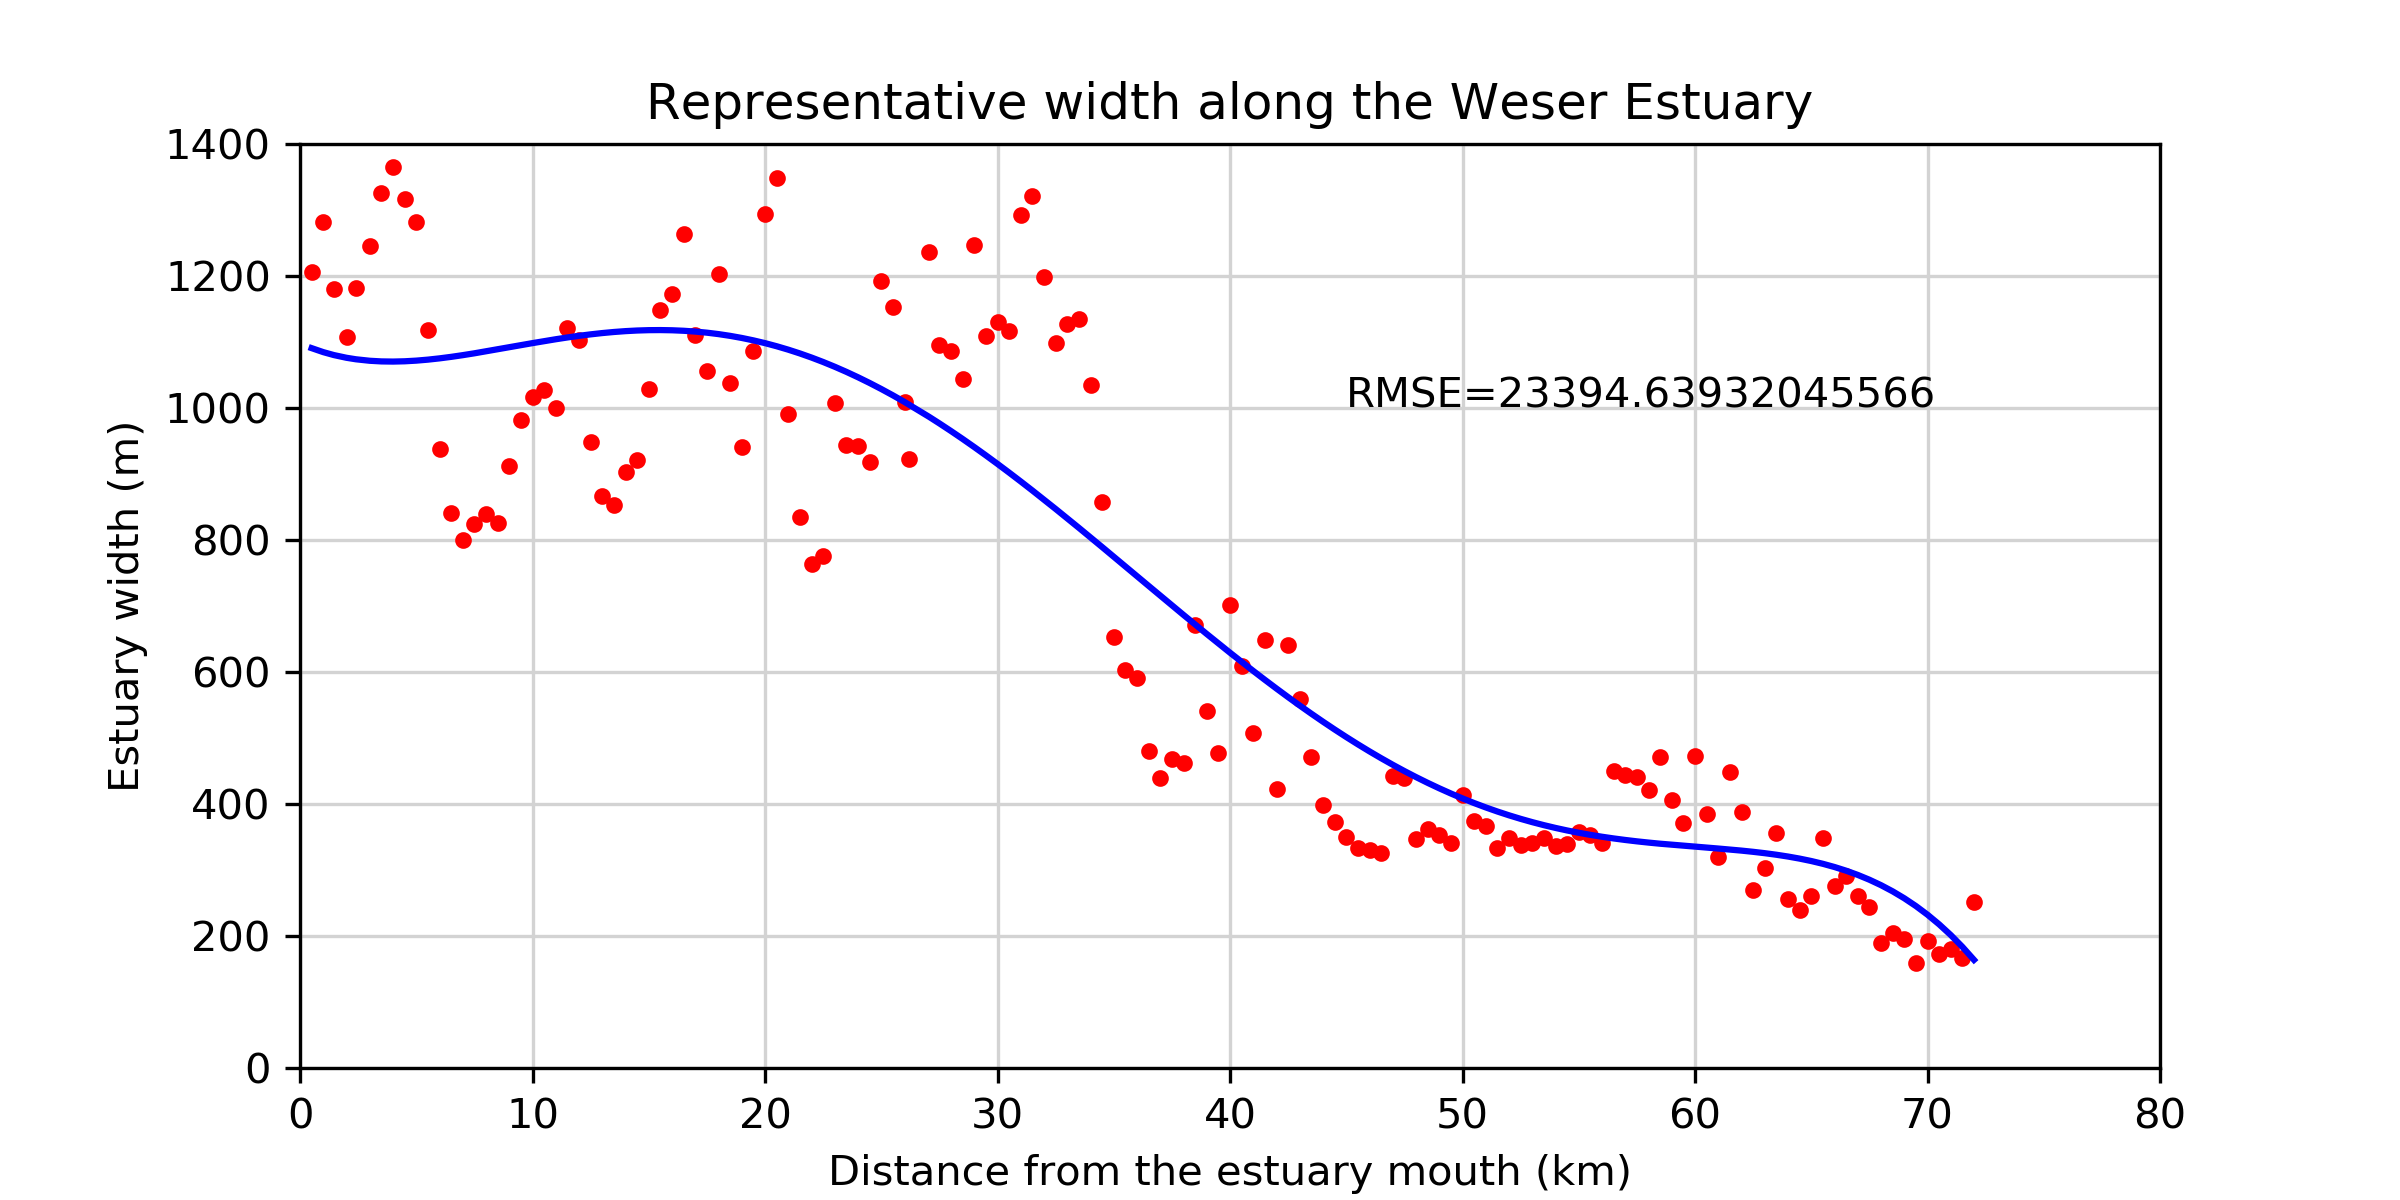
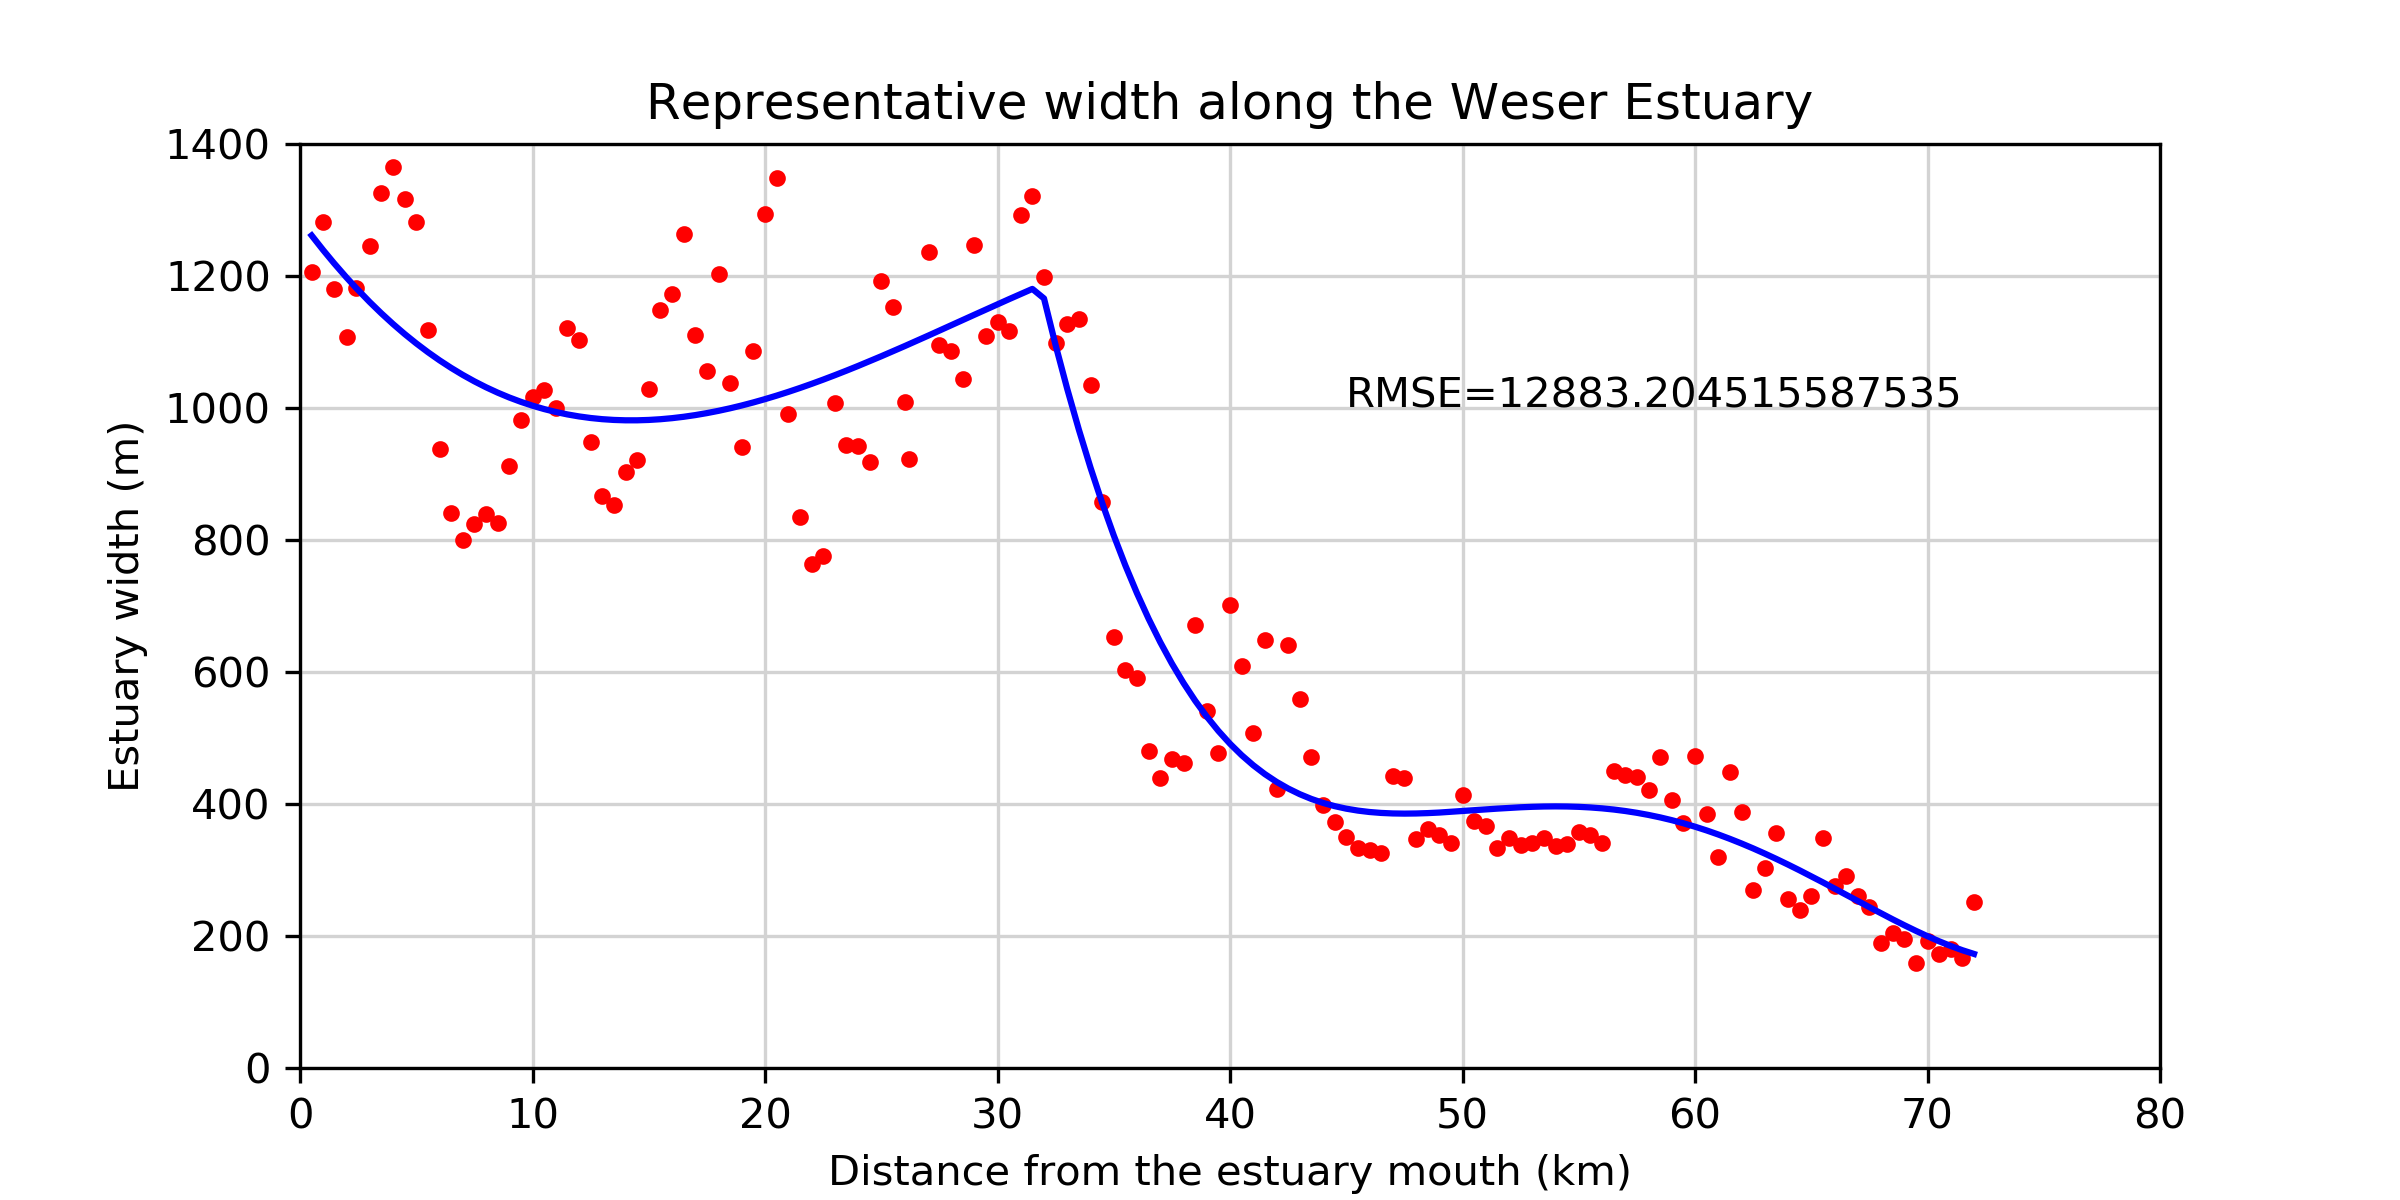
update curvefitting functions

diff --git a/src/curve_fitting_Ems_estuary.py b/src/curve_fitting_Ems_estuary.py
@@ -1,0 +1,100 @@
+import numpy as np
+import matplotlib.pyplot as plt
+from scipy.optimize import curve_fit
+
+# read the estuary data
+
+estuaryfileName = 'C:\\Users\\saaad264\\Research\\16_072_LIFE_sparc\\estuary_geometry\\Ems\\geometry_bathymetry.txt'
+estuaryfile = open(estuaryfileName, 'r')
+lines = estuaryfile.readlines()
+
+tmpData = []
+
+for lineStr in lines:
+    lineStr = lineStr.rstrip().split('\t')
+    lineNum = [float(lineStr[i]) for i in range(3)]
+    tmpData.append(lineNum)
+
+# data format: [Distance width bottom]
+estuaryData = np.array(tmpData)
+# change the descending order to ascending order
+dist =   estuaryData[:,0]
+width =  estuaryData[:,1]
+bottom = estuaryData[:,2]
+
+# remove nan values then perform curve fitting
+
+# for width ########################
+id_width = ~np.isnan(width)
+dist_data  = dist [id_width] # the data is in (m)
+width_data = width[id_width]
+
+# define curve functions
+
+# B = 762 - 4.18e-2*x + 3.83e-6*x^2 – 1.77e-10*x^3 + 3.27e-15*x^4 – 2.05e-20*x^5
+
+# def funcWidth(x):
+#     return 762.0 - 4.18e-2*x + 3.83e-6*x**2.0 - 1.77e-10*x**3.0 + 3.27e-15*x**4.0 - 2.05e-20*x**5.0
+
+def funcWidth(x,c1,c2,c3,c4,c5,c6):
+    return np.polyval([c1,c2,c3,c4,c5,c6],x/1000)
+
+popt_w, pcov_w = curve_fit(funcWidth, dist_data[dist_data>0], width_data[dist_data>0])
+
+# compute the RMSE
+width_fitting_RMSE = np.square(np.subtract(width_data[dist_data>0],funcWidth(dist_data[dist_data>0], *popt_w))).mean()
+# width_fitting_RMSE = np.square(np.subtract(width_data[dist_data>0],funcWidth(dist_data[dist_data>0]))).mean()
+
+# plot
+plt.figure(figsize=(8,4))
+plt.plot(dist_data[dist_data>0]/1000, width_data[dist_data>0], 'ro',markersize=3)
+plt.plot(np.arange(0, 64.01, 0.01), funcWidth(np.arange(0, 64.01, 0.01)*1000, *popt_w), 'b-')
+plt.text(30, 700, "RMSE="+str(width_fitting_RMSE))
+plt.title('Representative width along the Ems Estuary')
+plt.xlim([0,64])
+plt.ylim([0,1000])
+plt.xlabel('Distance from the estuary mouth (km)')
+plt.ylabel('Estuary width (m)')
+plt.grid(which='both',axis='both',color='lightgrey')
+plt.savefig('Representative width along the Ems Estuary'+'.png', dpi=300)
+plt.show()
+
+# for bottom ########################
+id_bottom = ~np.isnan(bottom)
+dist_data  = dist[id_bottom]
+bottom_data = 0 - bottom[id_bottom]
+
+# define curve functions
+
+# H = -0.5*1.2*(1+tanh((x-13000)/5000)) - 0.5*5.1e-5*(1+tanh((x-13000)/5000))*x + 10
+
+def funcBottom(x):
+    return -0.5*1.2*(1+np.tanh((x-13000)/5000)) - 0.5*5.1e-5*(1+np.tanh((x-13000)/5000))*x + 10
+
+# def funcBottom(x,c1,c2,c3):
+#     return c1*(1+np.tanh((x-13000)/5000)) - c2*(1+np.tanh((x-13000)/5000))*x + c3
+
+# def funcBottom(x,c1,c2,c3,c4,c5,c6,c7,c8,c9,c10):
+#     return np.polyval([c1,c2,c3,c4,c5,c6,c7,c8,c9,c10],x)
+
+popt_b, pcov_b = curve_fit(funcBottom, dist_data[dist_data>0], bottom_data[dist_data>0])
+
+# compute the RMSE
+# bottom_fitting_RMSE = np.square(np.subtract(bottom_data[dist_data>0],funcBottom(dist_data[dist_data>0], *popt_b))).mean()
+
+bottom_fitting_RMSE = np.square(np.subtract(bottom_data[dist_data>0],funcBottom(dist_data[dist_data>0]))).mean()
+
+plt.figure(figsize=(8,4))
+plt.plot(dist_data[dist_data>0]/1000, bottom_data[dist_data>0], 'ro',markersize=3)
+# plt.plot(np.arange(0, 64.01, 0.01), -funcBottom(np.arange(0, 64.01, 0.01)*1000, *popt_b), 'b-')
+plt.plot(np.arange(0, 64.01, 0.01), -funcBottom(np.arange(0, 64.01, 0.01)*1000), 'b-')
+plt.text(5, -4, "RMSE="+str(bottom_fitting_RMSE))
+plt.title('Representative bottom elevation along the Ems Estuary')
+plt.xlim([0,64])
+plt.ylim([-12,-2])
+plt.xlabel('Distance from the estuary mouth (km)')
+plt.ylabel('Bottom elevation (m MSL)')
+plt.grid(which='both',axis='both',color='lightgrey')
+# plt.savefig('Representative bottom elevation along the Ems Estuary'+'.png', dpi=300)
+plt.show()
+

diff --git a/src/curve_fitting_Weser_estuary.py b/src/curve_fitting_Weser_estuary.py
@@ -45,8 +45,14 @@ width_data = width[id_width]
 # def funcWidth(x,c0,c1,xc,xl,c2,c3,c11,c12,c21,c22,c4,c5,c6):
 #     return c0+c1*np.tanh((x-xc)/xl)+c2*(np.tanh((x-xc)/xl))*x+1000*np.exp(np.divide(np.polyval([c11,c12],x),np.polyval([c21,c22],x)))+np.polyval([c4,c5,c6],x)
 
-def funcWidth(x,c0,c1,xc,xl,c2,c3,Lc,c4,c5,c6,c7,c8,c9):
-    return c0+c1*np.tanh((x-xc)/xl)+c2*(np.tanh((x-xc)/xl))*x+c3*np.exp(-x/Lc)+np.polyval([c4,c5,c6,c7,c8,c9],x)
+# def funcWidth(x,c1,c2,xc,xl,c4,c5,c6,c7,c8,c9):
+#     return np.polyval([c1,c2],x)*np.tanh((x-xc)/xl)+np.polyval([c4,c5,c6,c7,c8,c9],x)
+
+def funcWidth(x,c01,c02,c03,c04,c11,c12,c13,c14,c15):
+    XL1 = 32.0
+    y1 = np.polyval([c01,c02,c03,c04],x[x<XL1])
+    y2 = np.polyval([c11,c12,c13,c14,c15],x[x>=XL1])
+    return np.concatenate((y2, y1), axis=None) # in case x has descending order
 
 popt_w, pcov_w = curve_fit(funcWidth, dist_data[dist_data>0], width_data[dist_data>0])
 
@@ -74,10 +80,16 @@ bottom_data = bottom[id_bottom]
 
 # define curve functions
 
-def funcBottom(x,c00,c10,c20,c30,c40,c01,c11,c21,c31):
-    XL0 = 70.0
-    y0 = np.polyval([c00,c10,c20,c30,c40],x[x<XL0])
-    y1 = np.polyval([c01,c11,c21,c31],x[x>=XL0])
+# def funcBottom(x,c00,c10,c20,c30,c40,c01,c11,c21,c31):
+#     XL0 = 70.0
+#     y0 = np.polyval([c00,c10,c20,c30,c40],x[x<XL0])
+#     y1 = np.polyval([c01,c11,c21,c31],x[x>=XL0])
+#     return np.concatenate((y1, y0), axis=None) # in case x has descending order
+
+def funcBottom(x,c00,c10,c20,c30,c01,c11,c21,c31,c41):
+    XL0 = 32.0
+    y0 = np.polyval([c00,c10,c20,c30],x[x<XL0])
+    y1 = np.polyval([c01,c11,c21,c31,c41],x[x>=XL0])
     return np.concatenate((y1, y0), axis=None) # in case x has descending order
 
 popt_b, pcov_b = curve_fit(funcBottom, dist_data[dist_data>0], bottom_data[dist_data>0],method='dogbox')

diff --git a/src/curve_fitting_Humber_estuary.py b/src/curve_fitting_Humber_estuary.py
@@ -33,9 +33,15 @@ width_data = width[id_width]
 # def funcWidth(x,c11,c12,c21,c22,c23):
 #     return 1000.0*np.exp(np.divide(np.polyval([c11,c12],x),np.polyval([c21,c22,c23],x)))
 
-def funcWidth(x,c0,c1,xc,xl,c2,c3,Lc,c11,c12):
+# def funcWidth(x,c0,c1,xc,xl,c2,c3,Lc,c11,c12):
+#     XL1 = 87.9
+#     y1 = c0+c1*np.tanh((x[x<XL1]-xc)/xl)+c2*np.tanh((x[x<XL1]-xc)/xl)*x[x<XL1]+c3*np.exp(-x[x<XL1]/Lc)
+#     y2 = np.polyval([c11,c12],x[x>=XL1])
+#     return np.concatenate((y2, y1), axis=None) # in case x has descending order
+
+def funcWidth(x,c0,c1,c2,xc,xl,c3,Lc,c11,c12):
     XL1 = 87.9
-    y1 = c0+c1*np.tanh((x[x<XL1]-xc)/xl)+c2*np.tanh((x[x<XL1]-xc)/xl)*x[x<XL1]+c3*np.exp(-x[x<XL1]/Lc)
+    y1 = c0+np.polyval([c1,c2],x[x<XL1])*np.tanh((x[x<XL1]-xc)/xl)+c3*np.exp(-x[x<XL1]/Lc)
     y2 = np.polyval([c11,c12],x[x>=XL1])
     return np.concatenate((y2, y1), axis=None) # in case x has descending order
 
@@ -65,11 +71,14 @@ bottom_data = bottom[id_bottom]
 
 # define curve functions
 
-def funcBottom(x,c01,c11,c21,c31,c41,c51,c61,c71,c02,c12,c22,c32):
-    XL1 = 130.0
-    y1 = np.polyval([c01,c11,c21,c31,c41,c51,c61,c71],x[x<XL1])
-    y2 = np.polyval([c02,c12,c22,c32],x[x>=XL1])
-    return np.concatenate((y2, y1), axis=None) # in case x has descending order
+# def funcBottom(x,c01,c11,c21,c31,c41,c51,c61,c71,c02,c12,c22,c32):
+#     XL1 = 130.0
+#     y1 = np.polyval([c01,c11,c21,c31,c41,c51,c61,c71],x[x<XL1])
+#     y2 = np.polyval([c02,c12,c22,c32],x[x>=XL1])
+#     return np.concatenate((y2, y1), axis=None) # in case x has descending order
+
+def funcBottom(x,c1,c2,c3,c4,c5,c6,c7,c8):
+    return np.polyval([c1,c2,c3,c4,c5,c6,c7,c8],x)
 
 popt_b, pcov_b = curve_fit(funcBottom, dist_data[dist_data>0], bottom_data[dist_data>0])
 

diff --git a/src/curve_fitting_Seine_estuary.py b/src/curve_fitting_Seine_estuary.py
@@ -60,13 +60,19 @@ bottom_data = bottom[id_bottom]
 
 # define curve functions
 
-def funcBottom(x,c00,c10,c20,c30,c40,c50,c60,c70,c01,c11,c21,c31,c41,c51,c61,c71,c81,c02,c12,c22,c32,c42):
-    XL0 = 0.0
+# def funcBottom(x,c00,c10,c20,c30,c40,c50,c60,c70,c01,c11,c21,c31,c41,c51,c61,c71,c81,c02,c12,c22,c32,c42):
+#     XL0 = 0.0
+#     XL1 = 114.5
+#     y0 = np.polyval([c00,c10,c20,c30,c40,c50],x[x<XL0])
+#     y1 = np.polyval([c01,c11,c21,c31,c41,c51,c61,c71],x[np.logical_and(x>=XL0,x<XL1)])
+#     y2 = np.polyval([c02,c12,c22,c32],x[x>=XL1])
+#     return np.concatenate((y2, y1, y0), axis=None) # in case x has descending order
+
+def funcBottom(x,c01,c11,c21,c31,c41,c51,c61,c02,c12,c22,c32):
     XL1 = 114.5
-    y0 = np.polyval([c00,c10,c20,c30,c40,c50],x[x<XL0])
-    y1 = np.polyval([c01,c11,c21,c31,c41,c51,c61,c71],x[np.logical_and(x>=XL0,x<XL1)])
+    y1 = np.polyval([c01,c11,c21,c31,c41,c51,c61],x[x<XL1])
     y2 = np.polyval([c02,c12,c22,c32],x[x>=XL1])
-    return np.concatenate((y2, y1, y0), axis=None) # in case x has descending order
+    return np.concatenate((y2, y1), axis=None) # in case x has descending order
 
 popt_b, pcov_b = curve_fit(funcBottom, dist_data[dist_data>0], bottom_data[dist_data>0])
 

diff --git a/src/curve_fitting_Elbe_estuary.py b/src/curve_fitting_Elbe_estuary.py
@@ -40,8 +40,11 @@ width_data = width[id_width]
 # def funcWidth(x,c0,Lc):
 #     return c0*np.exp(-x/Lc)
 
-def funcWidth(x,c0,c1,xc,xl,c2,c3,Lc,c4,c5,c6):
-    return c0+c1*(np.tanh((x-xc)/xl))+c2*(np.tanh((x-xc)/xl))*x+c3*np.exp(-x/Lc)+np.polyval([c4,c5,c6],x)
+# def funcWidth(x,c0,c1,xc,xl,c2,c4,c5,c6):
+#     return c0+c1*(np.tanh((x-xc)/xl))+c2*(np.tanh((x-xc)/xl))*x+np.polyval([c4,c5,c6],x)
+
+def funcWidth(x,c1,xc,xl,c2,c3,c4,c5):
+    return np.polyval([c1,c2],x)*(np.tanh((x-xc)/xl))+np.polyval([c3,c4,c5],x)
 
 popt_w, pcov_w = curve_fit(funcWidth, dist_data[dist_data>0], width_data[dist_data>0])
 

diff --git a/src/processing_schematized_Scheldt.py b/src/processing_schematized_Scheldt.py
@@ -13,7 +13,7 @@ from Reading_TelemacData3D import *
 # task 1 - plot 2DV field
 
 work_dir = 'J:\\18_043_implementation_of_flocculation_model_in_Telemac\\Idealized_Scheldt_ETM\\'
-run_name = 'EBC_rouse_ws=2.8mms_M=6.0e-5_Q=80m3s_init.SSC_2times_ADV_TA=5'
+run_name = 'EBC_rouse_ws=2.8mms_M=6.0e-5_Q=80m3s_init.SSC_2times_finegrid_v2'
 resfile = '\\r3d_mean_14075_to_14224.slf'
 slf_file = work_dir + run_name + resfile
 

diff --git a/src/curve_fitting_Scheldt_estuary.py b/src/curve_fitting_Scheldt_estuary.py
@@ -65,8 +65,6 @@ def funcBottom(x,c1,c2,c3,c4,c5):
     y2 = np.polyval([c1,c2,c3,c4,c5],XL) + np.polyder(np.poly1d([c1,c2,c3,c4,c5]))(XL)*(x[x>=XL]-XL)
     return np.concatenate((y2, y1), axis=None) # in case x has descending order
 
-XL = 130.0
-
 popt_b, pcov_b = curve_fit(funcBottom, dist_data[dist_data>0], bottom_data[dist_data>0])
 
 # compute the RMSE
